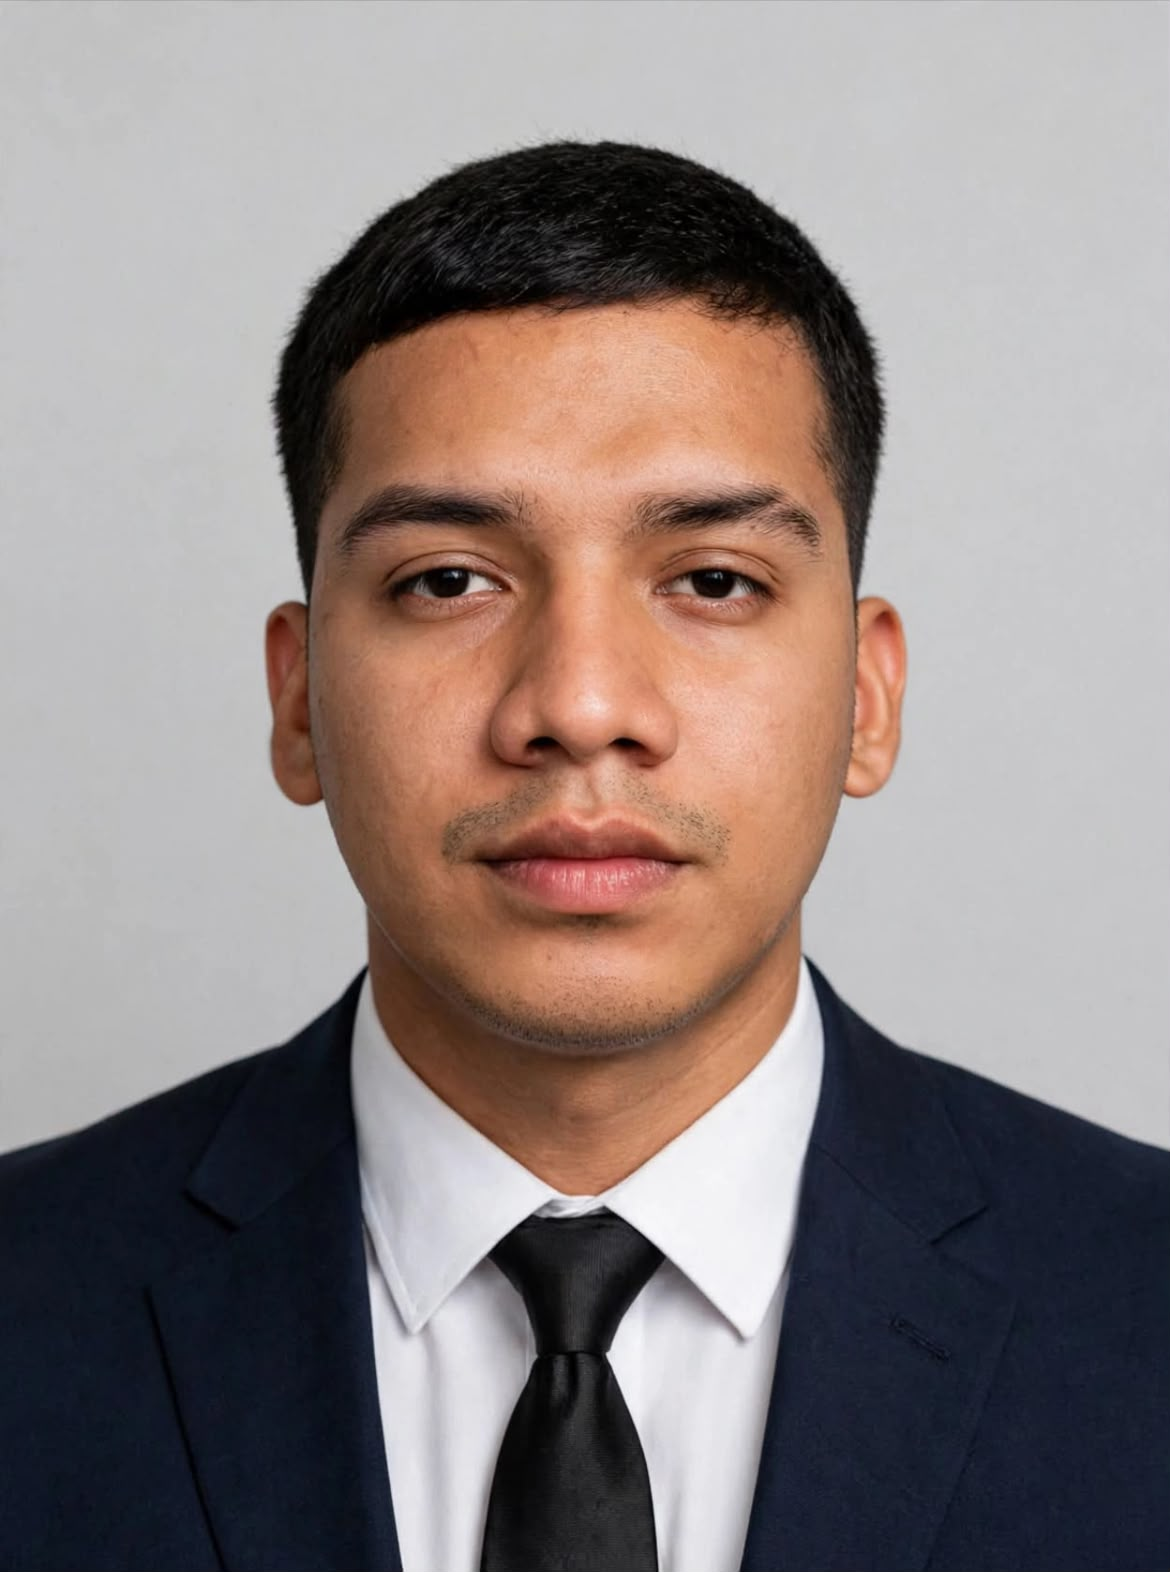
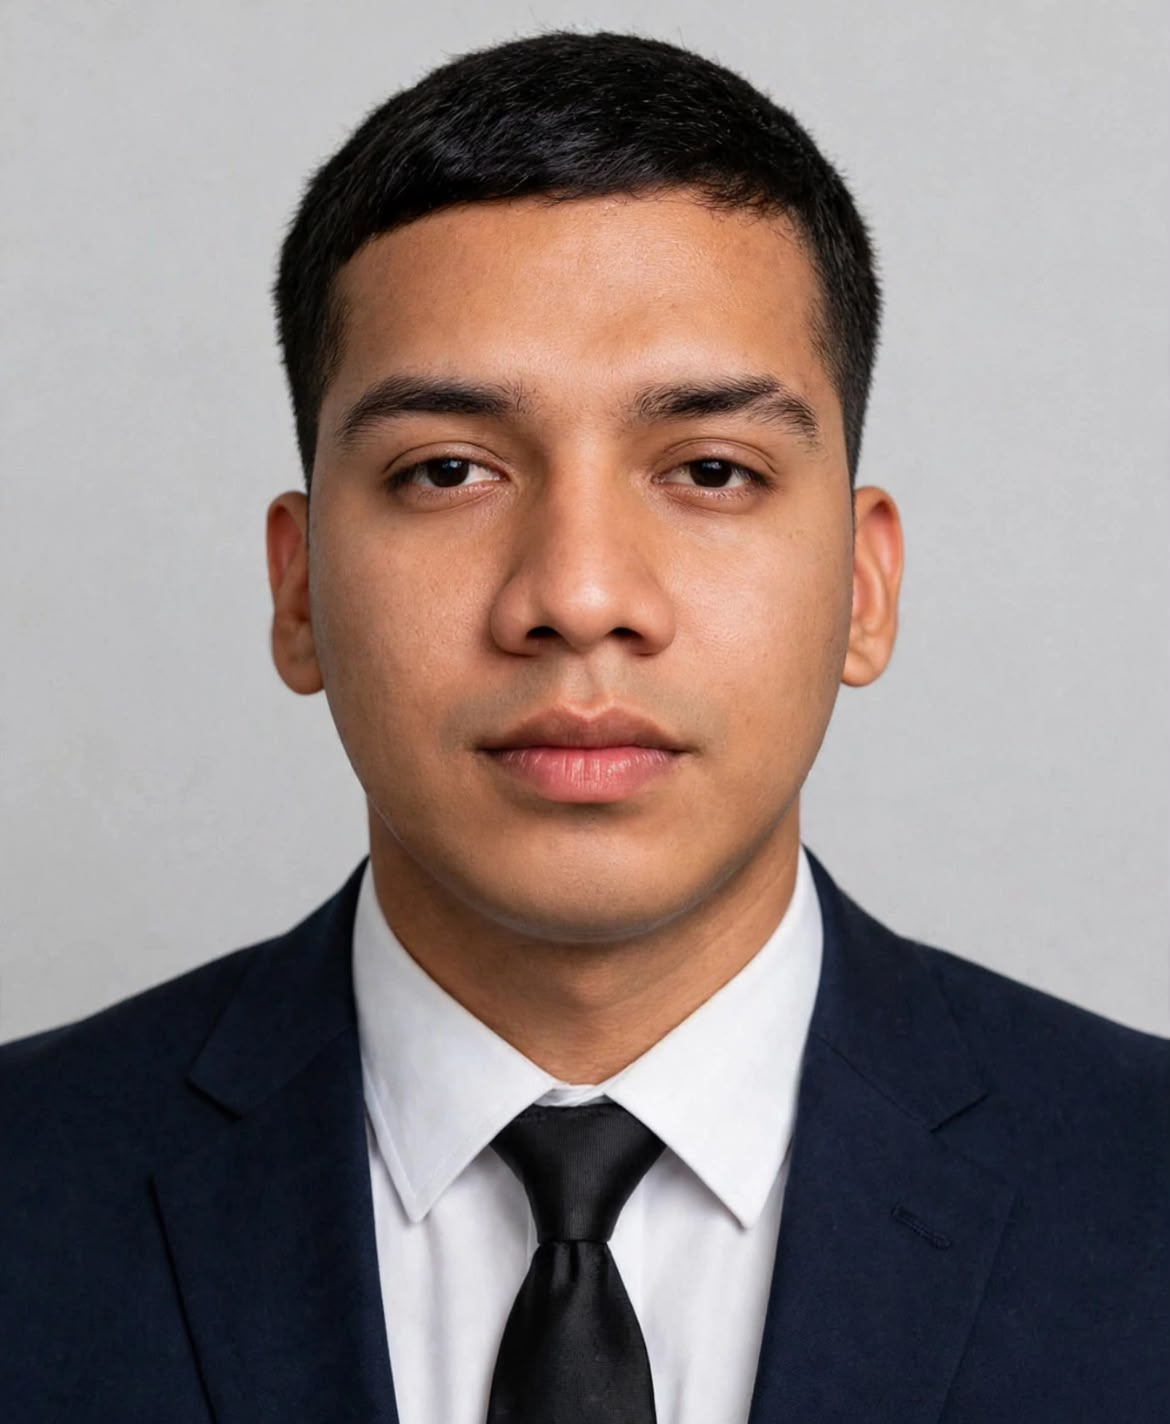
mejoramos la ortografia y volvimos a cambiar la imagen de presentacion

diff --git a/index.html b/index.html
@@ -31,12 +31,12 @@
         <img src="img/mia.jpg.jpeg" alt="Imagen representativa mia">
         </section>
 
-        <section id="sobre-mi">
+        <section id="sobre-mí">
             <h2>Sobre mí</h2>
 
             <p>
                 Soy Anthony Torres, estudiante de Ingeniería de Sistemas y trabajador
-                me llama mucho la atencion la rpogramacion y quisiera a futuro dedicarme a freelancer 
+                me llama mucho la atención la programación y quisiera a futuro dedicarme a freelance
             </p>
 
             <p>
